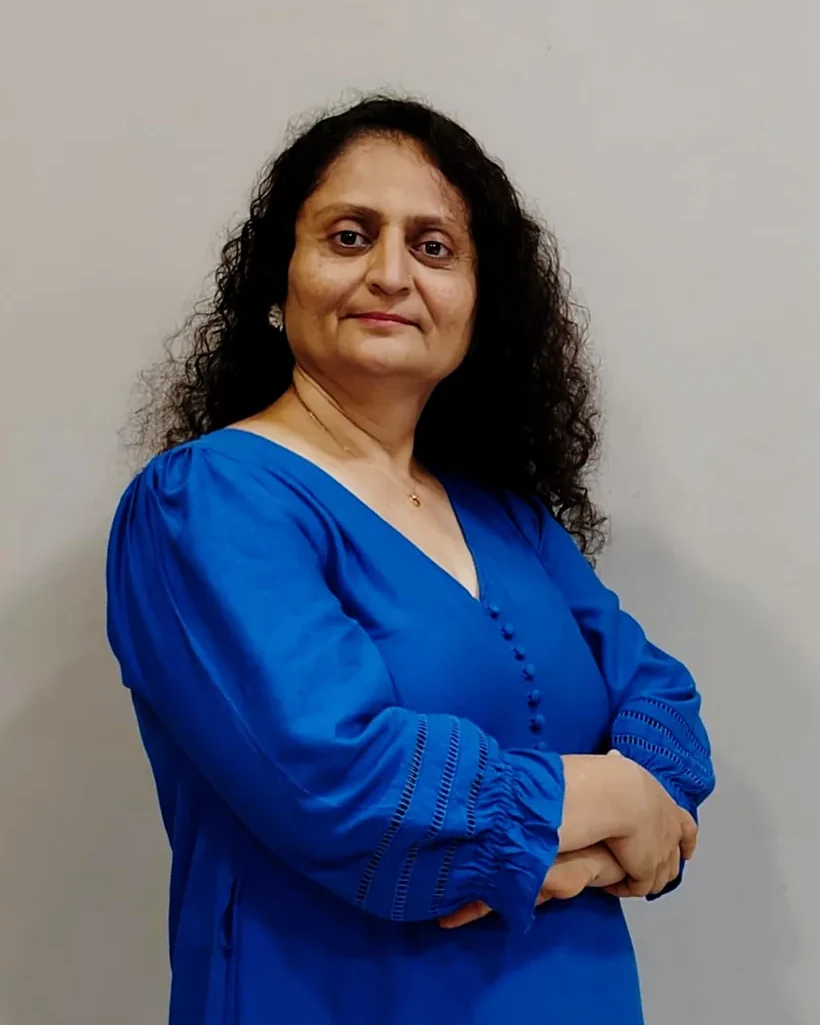
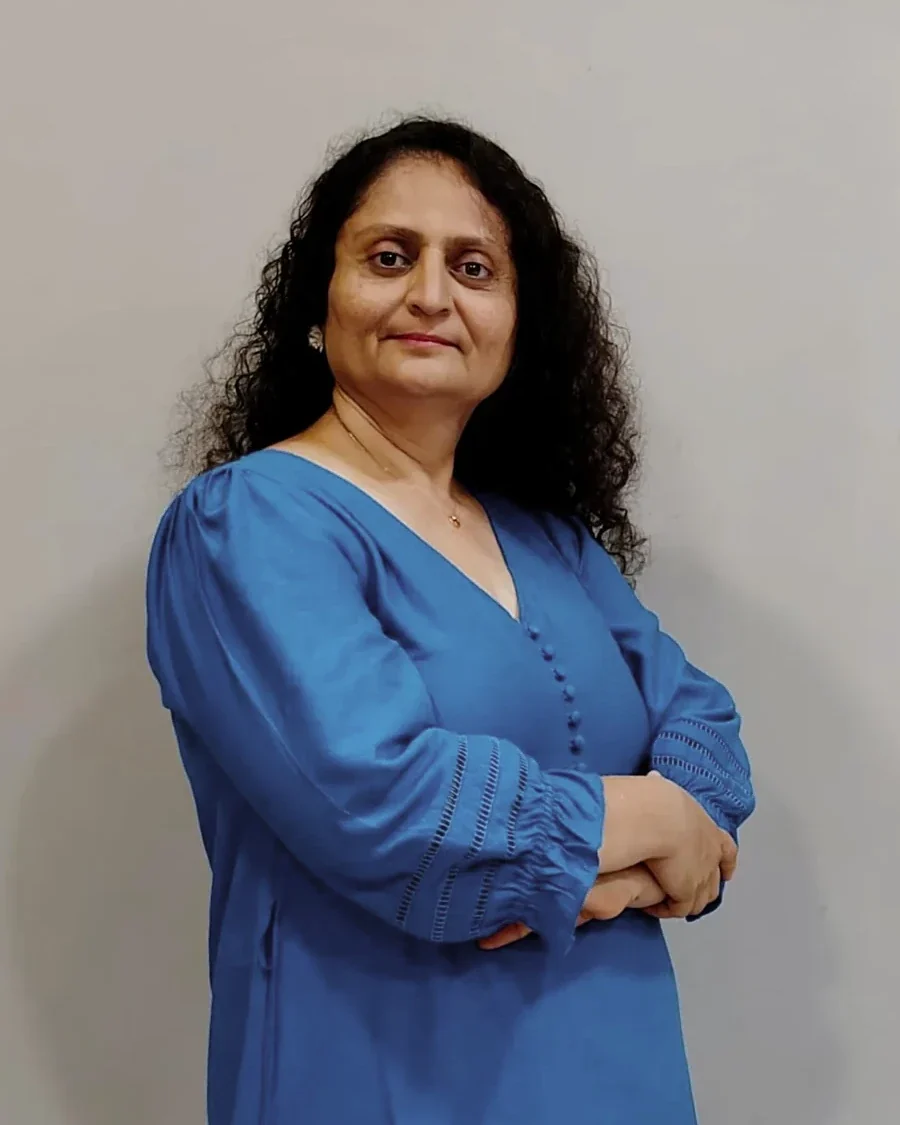
The founders are photographed, not tinted
The blue was not the kurta. The about page ran the pair through
`mix-blend-mode: luminosity` over an indigo ground, so both founders rendered
purple — a real person shown in a brand tint, on the page that introduces
them by name. The reasoning was that two portraits shot against two different
blank walls read as two snapshots unless one grade unifies them. True as far
as it goes, and worth less than either of them being a photograph. Removed.

I also measured the white balance before assuming: both walls are warm, not
cool (red 182 vs blue 170 on each). There was no cast to correct. What made
the home page read blue was my own crop — tightening it had let the garment
fill the frame. It is a little wider now, and the strong blues carry 62% of
their saturation so the kurta reads as cloth rather than as a light source.
Skin and wall are untouched.

The portrait no longer hangs into the reel band. It had a negative bottom
margin so it crossed the seam, with .reels padded to make room and the
caption absolutely positioned onto that dark band. An earlier pass had
already recorded that this "read as a clipping bug" and answered by crossing
further rather than not at all; it has now been read the same way a second
time, independently, which is enough. Measured at 1024px the caption cleared
the reels heading by 24px. It now clears by 109-174px across 1024-1680, the
picture ends 79-105px inside its own section, and the band below starts
clean.
[…]

diff --git a/assets/css/style.css b/assets/css/style.css
@@ -4823,3 +4823,50 @@ h1.pdp__title {
 .people__grid .person__fig img,
 .people__grid .person:first-child .person__fig img,
 .people__grid .person:last-child .person__fig img { filter: none; }
+
+/* --- The portrait stops hanging into the reel band ------------------------
+   The founder's picture was given a negative bottom margin so it crossed the
+   seam into the dark band below, with the reels section padded to make room
+   and the caption absolutely positioned onto that band with its own dark
+   background. The intent was a page that reads as composed rather than
+   stacked.
+
+   It does not read that way. An earlier pass already recorded that the
+   overhang "read as a clipping bug" and responded by crossing further rather
+   than not at all, and it has now been read the same way a second time,
+   independently. Measured at 1024px the caption cleared the reels heading by
+   24px — close enough that the portrait looked like it belonged to the reels
+   section rather than to the founders.
+
+   Two independent readings of the same effect as a mistake is enough. The
+   picture sits inside its own section, the caption sits under it on the light
+   ground it is actually printed on, and the band below starts clean. */
+@media (min-width: 1001px) {
+  .founder { padding-bottom: var(--s-section-sm); }
+  .founder__grid { align-items: start; }
+  .founder__grid > div { padding-bottom: 0; }
+  .founder__fig { margin-bottom: 0; box-shadow: none; }
+  .founder__plate { box-shadow: 0 14px 36px rgba(10, 11, 30, 0.10); }
+  .founder__cap {
+    position: static;
+    margin-top: 0.9rem;
+    padding: 0;
+    background: none;
+    color: var(--ink-mute);
+  }
+  .reels { padding-top: var(--s-section); }
+}
+
+/* --- The founders are photographed, not tinted ----------------------------
+   The pair carried `mix-blend-mode: luminosity` over an indigo ground, which
+   is what made both faces render purple. The reasoning was that two portraits
+   shot against two different blank walls read as two snapshots unless one
+   grade unifies them, and that is true as far as it goes — but the price was
+   that neither founder appeared in their own colouring, on the page that
+   introduces them by name. A real person shown in a brand tint reads as stock
+   art, which is the opposite of what this section is for.
+
+   Consistency between the two frames is worth less than either of them being
+   a photograph. They now render as taken. */
+.people__grid .person__fig { background: var(--indigo-wash); }
+.people__grid .person__fig img { mix-blend-mode: normal; filter: none; }

diff --git a/index.html b/index.html
@@ -363,7 +363,7 @@
     <div class="shell founder__grid">
       <figure class="founder__fig">
         <span class="founder__plate rvimg">
-          <img src="assets/opt/founder-anita.webp" srcset="assets/opt/founder-anita.webp 560w, assets/opt/founder-anita-lg.webp 820w" sizes="(max-width: 1000px) 92vw, 38vw" alt="Anita Jasani, founder of EYVE" width="560" height="700" loading="lazy" decoding="async">
+          <img src="assets/opt/founder-anita.webp" srcset="assets/opt/founder-anita.webp 560w, assets/opt/founder-anita-lg.webp 900w" sizes="(max-width: 1000px) 92vw, 38vw" alt="Anita Jasani, founder of EYVE" width="560" height="700" loading="lazy" decoding="async">
         </span>
         <figcaption class="founder__cap">Anita Jasani &middot; Founder &middot; Surat</figcaption>
       </figure>

diff --git a/about.html b/about.html
@@ -84,7 +84,7 @@
       <div class="people__grid">
         <article class="person rv">
           <figure class="person__fig rvimg">
-            <img src="assets/opt/founder-anita.webp" srcset="assets/opt/founder-anita.webp 560w, assets/opt/founder-anita-lg.webp 820w" sizes="(max-width: 700px) 88vw, 26rem" alt="Anita Jasani, founder of EYVE" width="560" height="700" decoding="async">
+            <img src="assets/opt/founder-anita.webp" srcset="assets/opt/founder-anita.webp 560w, assets/opt/founder-anita-lg.webp 900w" sizes="(max-width: 700px) 88vw, 26rem" alt="Anita Jasani, founder of EYVE" width="560" height="700" decoding="async">
           </figure>
           <h3 class="person__name">Anita Jasani</h3>
           <p class="person__role">Founder &mdash; doctor and pharmacist</p>
